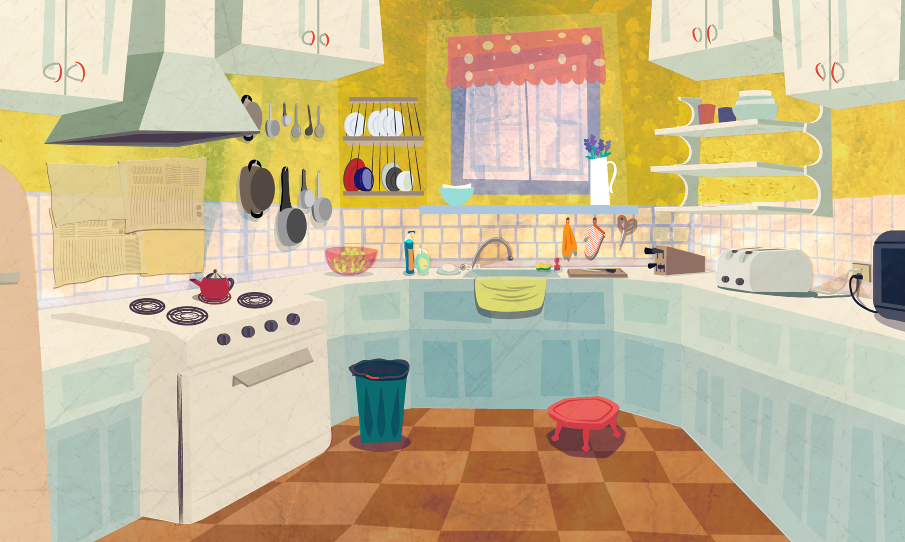
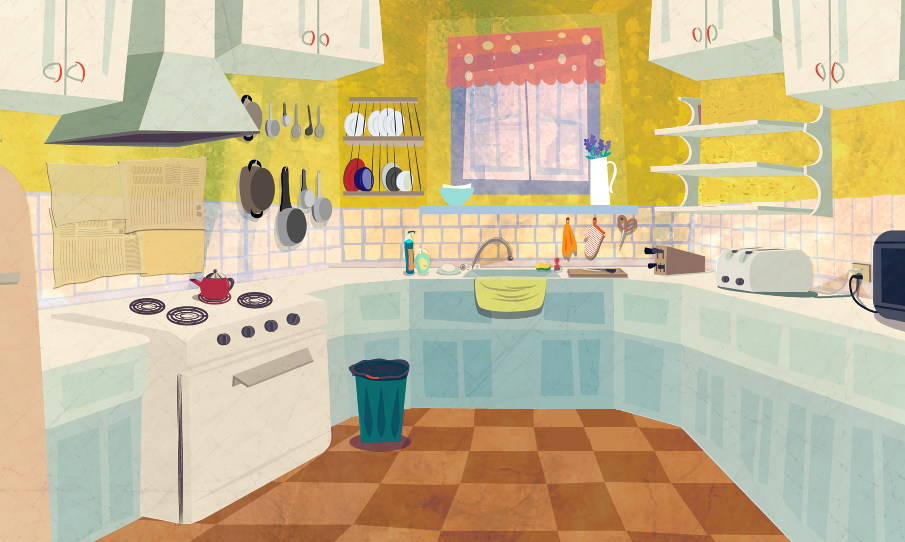
Remove stool and objects on shelves from background

Changed region(s): [[0.5878, 0.7085, 0.7116, 0.8561], [0.7735, 0.1476, 0.8663, 0.2362], [0.3403, 0.4428, 0.4331, 0.5314]]

diff --git a/README.md b/README.md
@@ -63,4 +63,9 @@ Tuesday, June 9
 - Starting on status bar for using the tools
 - Photoshopped shelves on background to be empty
 - Added ingredients to the game screen
+- Added animation of player
 
+Wednesday, June 10
+- Changing animation of player to mouse control
+- Working on specific recipes
+- Getting images of finished dishes
